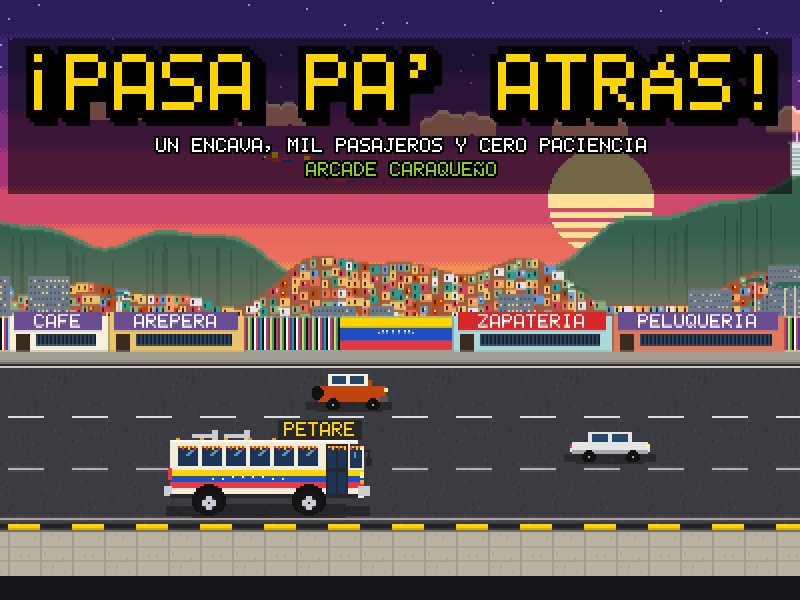
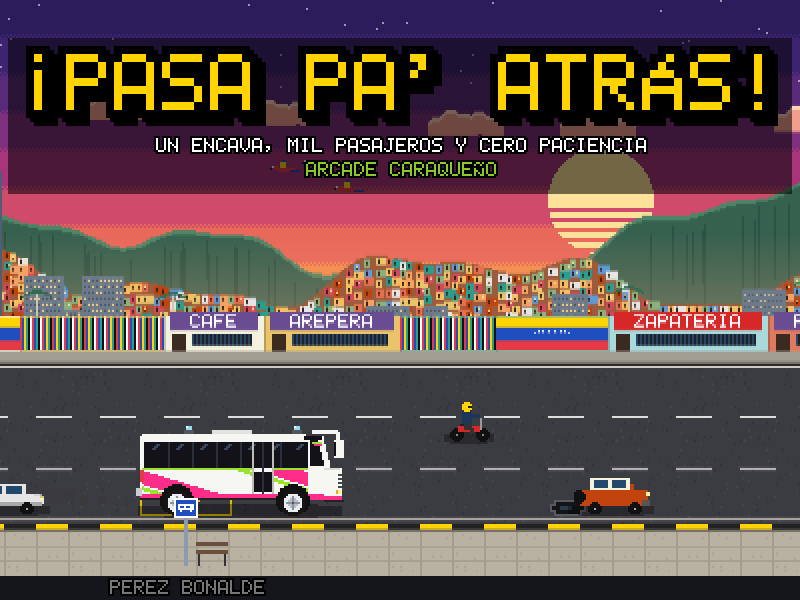
mejora visual del autobus

diff --git a/game.js b/game.js
@@ -6,6 +6,7 @@ const W = 400;
 const H = 300;
 const LY = [205, 231, 257]; // línea del suelo de cada carril (0 = izquierdo, 2 = junto a la acera)
 const KEY = 'pasa-pa-atras-v1';
+const DOOR = 11; // centro de la puerta respecto al centro del bus
 const DOCK = 40; // tolerancia (px) entre la puerta y el centro de la parada, hacia adelante o atrás
 
 // DO NOT replace existing keys — they match the physical arcade cabinet wiring.
@@ -77,6 +78,7 @@ const SOFT = 0xbbbbcc;
 const GOLD = 0xffd400;
 const GREEN = 0x8ac926;
 const LINE = 0x3a3a55;
+const PODIO = [0xffd400, 0xd8dee9, 0xe08a4a]; // oro, plata, bronce
 const PC = [0xff595e, 0xffca3a, 0x8ac926, 0x4cc9f0, 0xc77dff, 0xff8fd8, 0xf4a261, 0xffffff];
 const VT = [['c0', 20], ['c1', 20], ['c2', 20], ['c3', 20], ['c4', 20], ['c5', 20], ['pp', 24], ['jp', 19], ['mo', 11], ['mo', 11], ['tr', 32]];
 
@@ -194,50 +196,61 @@ function textures() {
   });
   S.cache.bitmapFont.add('f', Phaser.GameObjects.RetroFont.Parse(S, { image: 'font', width: 7, height: 9, chars: FC, charsPerRow: 20 }));
 
-  // El Encava ENT-610, decorado a la venezolana
+  // El Encava ENT-610 "tuneado": blanco, vidrios negros, rayas fucsia y verde lima,
+  // trompa con parachoques fucsia, espejos "oreja", sirenas en el techo y rines cromados
   mk('bus', 104, 46, () => {
-    const cr = '#f4ecd6';
-    R(dk, 57, 0, 42, 10);
-    ptxt('PETARE', 60, 1, Y);
-    R(ch, 14, 7, 12, 2); R(ch, 24, 5, 3, 5); R(ch, 30, 7, 12, 2); R(ch, 40, 5, 3, 5);
-    R(cr, 3, 10, 94, 29);
-    R(cr, 97, 13, 3, 26);
-    R('#fffaf0', 4, 10, 92, 1);
-    for (const x of [6, 18, 30, 42, 54]) R('#ff9f1c', x, 9, 2, 1);
-    for (let i = 0; i < 6; i++) {
-      const x = 7 + i * 12;
-      R(gl, x, 13, 10, 10);
-      R(g2, x + 6, 15, 2, 1); R(g2, x + 5, 16, 2, 1); R(g2, x + 4, 17, 2, 1);
+    const wh = '#f6f6f2', gs = '#121218', gr = '#2a2f3d', pk = '#ff2d8a', lm = '#9be22d', rf = '#3a4660';
+    // techo: aire acondicionado y luces tipo sirena
+    R('#e2e2de', 38, 5, 20, 2);
+    for (const x of [24, 78]) { R('#555', x, 5, 5, 2); R('#8fdcff', x + 1, 3, 3, 2); R('#fff', x + 1, 3); }
+    // carrocería y cabina con parabrisas inclinado
+    R(wh, 2, 8, 84, 31);
+    R(wh, 3, 7, 82, 1);
+    for (let y = 8; y < 39; y++) {
+      const e = y < 24 ? 93 + ((y - 8) >> 2) : 102;
+      R(wh, 86, y, e - 85, 1);
+      if (y > 9 && y < 23) R(gs, 87, y, e - 89, 1);
     }
-    R(dk, 81, 12, 11, 27);
-    R(gl, 82, 13, 9, 11);
-    R(gl, 82, 26, 9, 11);
-    R(dk, 86, 13, 1, 24);
-    R(gl, 93, 12, 5, 12);
-    R(gl, 98, 15, 1, 9);
-    R(g2, 95, 16, 1, 3);
-    // flecos rojos y amarillos
-    for (let x = 7; x < 99; x++) if ((x < 79 && (x - 7) % 12 < 10) || (x > 81 && x < 91) || x > 92) R(x % 2 ? Rd : Y, x, 13, 1, 1 + (x % 3 == 0));
-    // franjas tricolor con las 8 estrellas
-    for (const [c, y] of [[Y, 25], [B, 28], [Rd, 31]]) { R(c, 3, y, 78, 3); R(c, 92, y, 8, 3); }
-    for (let i = 0; i < 8; i++) R('#fff', 24 + i * 5, 29 - (i > 1 && i < 6));
-    R(Rd, 2, 24, 2, 6);
-    R('#fff59d', 98, 26, 2, 3);
-    R('#ff9f1c', 98, 30, 2, 2);
-    R(ch, 0, 33, 4, 5);
-    R(ch, 97, 33, 6, 5);
-    R(dk, 100, 15, 3, 1); R(dk, 102, 15, 1, 5); R(dk, 101, 19, 3, 4);
-    R(dk, 3, 37, 94, 2);
-    ci('#111', 22, 40, 8);
-    ci('#111', 72, 40, 8);
+    R(gs, 84, 8, 9, 2); // visera negra
+    R(lm, 88, 11, 5, 1); R(pk, 89, 12, 4, 1); // calcomanía en el parabrisas
+    R('#d9d9d4', 94, 24, 8, 1);
+    // franja de ventanas polarizadas
+    R(gs, 4, 11, 82, 13);
+    for (const x of [16, 28, 40, 52, 72]) R(gr, x, 11, 1, 13);
+    for (let x = 6; x < 80; x += 12) { R(rf, x + 4, 12, 2, 1); R(rf, x + 3, 13, 2, 1); R(rf, x + 2, 14, 2, 1); }
+    R(lm, 3, 24, 83, 1);
+    // rayas en curva subiendo hacia atrás
+    for (let x = 3; x < 86; x++) {
+      for (let y = 25; y < 37; y++) {
+        const v = (((y - 0.3 * x) % 24) + 24) % 24;
+        if (v < 7) R(pk, x, y);
+        else if (v >= 8 && v < 10) R(lm, x, y);
+      }
+    }
+    // puerta de dos hojas, detrás de la rueda delantera
+    R(wh, 58, 24, 11, 15);
+    R('#bdbdb8', 58, 11, 1, 28); R('#bdbdb8', 68, 11, 1, 28); R(gr, 63, 11, 1, 27);
+    R(gs, 59, 26, 4, 10); R(gs, 64, 26, 4, 10);
+    // faldón, trompa y luces
+    R(pk, 2, 37, 92, 2);
+    R('#222', 2, 39, 90, 1);
+    for (let k = 0; k < 4; k++) R('#444', 101, 27 + k * 2, 2, 1);
+    R('#fff59d', 101, 35, 2, 2); R('#ff9f1c', 100, 35, 1, 2);
+    R(pk, 86, 38, 17, 2); R('#222', 94, 40, 10, 1);
+    R('#e63946', 2, 25, 2, 6); R(ch, 0, 34, 3, 4);
+    // espejo "oreja"
+    R(wh, 88, 5, 13, 2); R(wh, 100, 6, 2, 4); R(wh, 99, 10, 5, 9); R(gs, 99, 11, 1, 7);
+    ci('#111', 20, 40, 8);
+    ci('#111', 78, 40, 8);
   });
   for (let f = 0; f < 2; f++) {
     mk('w' + f, 13, 13, () => {
       ci('#151515', 6, 6, 6);
-      ci(ch, 6, 6, 3);
-      if (f) { R('#444', 4, 4); R('#444', 8, 8); R('#444', 8, 4); R('#444', 4, 8); }
-      else { R('#444', 6, 3, 1, 7); R('#444', 3, 6, 7, 1); }
-      R('#222', 6, 6);
+      ci('#e9ecf0', 6, 6, 4);
+      ci('#b8bcc4', 6, 6, 2);
+      if (f) { R('#8a9099', 4, 4); R('#8a9099', 8, 8); R('#8a9099', 8, 4); R('#8a9099', 4, 8); }
+      else { R('#8a9099', 6, 3, 1, 7); R('#8a9099', 3, 6, 7, 1); }
+      R('#fff', 4, 3); R('#555', 6, 6);
     });
   }
   mk('sh', 32, 6, () => { R('#000', 4, 0, 24, 6); R('#000', 0, 1, 32, 4); });
@@ -319,6 +332,12 @@ function textures() {
   mk('ar', 12, 9, () => { R('#d4a373', 1, 0, 10, 4); R('#d4a373', 0, 1, 12, 3); R('#8b5a2b', 3, 1); R('#8b5a2b', 7, 2); R('#8b5a2b', 9, 1); R('#fdfcdc', 0, 4, 12, 1); R('#f4978e', 1, 5, 10, 1); R('#d4a373', 0, 6, 12, 2); R('#d4a373', 1, 8, 10, 1); });
   mk('bl', 12, 7, () => { R('#2d6a4f', 0, 0, 12, 7); R('#95d5b2', 1, 1, 10, 5); R('#2d6a4f', 5, 2, 2, 3); R('#2d6a4f', 2, 2); R('#2d6a4f', 9, 4); });
   mk('cf', 9, 10, () => { R('#ddd', 2, 0, 1, 2); R('#ddd', 4, 1, 1, 2); R('#fff', 1, 3, 6, 7); R('#fff', 7, 4, 2, 1); R('#fff', 8, 5, 1, 2); R('#fff', 7, 7, 2, 1); R('#6f4e37', 2, 3, 4, 1); R('#caa', 1, 9, 6, 1); });
+
+  mk('tip', 7, 10, () => {
+    R(Y, 2, 0, 3, 1); R(Y, 1, 1, 5, 4); R(Y, 2, 5, 3, 1);
+    R('#fff', 2, 1, 1, 2);
+    R('#ccc', 2, 6, 3, 1); R('#888', 2, 7, 3, 1); R('#ccc', 2, 8, 3, 1); R('#888', 3, 9);
+  });
 
   // guacamayas
   for (let f = 0; f < 2; f++) {
@@ -608,10 +627,11 @@ function create() {
   [['DERECHA', 'ACELERAR'], ['IZQUIERDA', 'FRENAR / RETRO'], ['ARRIBA/ABAJO', 'CAMBIAR CARRIL'], ['B1 / B2', 'CORNETA / TURBO']].forEach(([k, a], i) =>
     tc.add([T(12, 131 + i * 10, k, 1, GOLD), T(96, 131 + i * 10, a, 1, 0xffffff)]),
   );
-  tc.add((h.rk = T(212, 131, '', 1, 0xffffff)));
-  tc.add((h.rs = T(388, 131, '', 1, GOLD, 1).setRightAlign()));
-  tc.add(S.add.rectangle(W / 2, 189, 392, 13, 0x000000, 0.6));
-  tc.add((h.tip = T(W / 2, 185, TIPS[0], 1, 0x4cc9f0, 0.5)));
+  h.rk = rows(tc, 212, 388, 131);
+  tc.add((h.tb = S.add.rectangle(W / 2, 190, 10, 15, 0x0b0b14, 0.85).setStrokeStyle(1, LINE)));
+  tc.add((h.tbi = S.add.image(0, 185, 'tip').setOrigin(0)));
+  tc.add((h.tip = T(W / 2 + 6, 186, '', 1, 0x4cc9f0, 0.5)));
+  setTip(TIPS[0]);
   S.tweens.add({ targets: h.ps, alpha: 0.25, duration: 450, yoyo: true, repeat: -1 });
 
   // pausa
@@ -632,8 +652,7 @@ function create() {
   h.L = [0, 1, 2].map((i) => T(170 + i * 30, 142, 'A', 3, 0xffffff, 0.5));
   o.add(h.L);
   o.add((h.ng = S.add.graphics()));
-  o.add((h.or = T(150, 138, '', 1, 0xffffff)));
-  o.add((h.os = T(250, 138, '', 1, GOLD, 1).setRightAlign()));
+  h.or = rows(o, 140, 260, 136);
   o.add((h.ot = T(W / 2, 196, '', 1, DIM, 0.5)));
 
   getStore()
@@ -654,7 +673,7 @@ function update(time, dms) {
   if (G.ph == 'play') play(dt);
   else if (G.ph == 'title') {
     G.wx += 90 * dt;
-    if ((G.tt -= dt) < 0) { G.tt = 3.5; h.tip.setText(TIPS[G.ti++ % TIPS.length]); }
+    if ((G.tt -= dt) < 0) { G.tt = 3.5; setTip(TIPS[G.ti++ % TIPS.length]); }
     if (pr('S') | pr('1')) startGame();
   } else if (G.ph == 'pause') {
     if (pr('S')) { G.ph = 'play'; h.pause.setVisible(0); S.tweens.resumeAll(); }
@@ -694,9 +713,31 @@ function startGame() {
   pop(W / 2, 70, 'PARA RECOGER PASAJEROS', 0xffd400);
 }
 
+// 5 filas de ranking (nombre a la izquierda, puntaje a la derecha) dentro de un container
+function rows(c, xl, xr, y) {
+  return [0, 1, 2, 3, 4].map((i) => {
+    const r = [T(xl, y + i * 9, ''), T(xr, y + i * 9, '', 1, 0xffffff, 1)];
+    c.add(r);
+    return r;
+  });
+}
+function fillRank(rs) {
+  rs.forEach(([n, v], i) => {
+    const r = G.rank[i];
+    const c = i < 3 ? PODIO[i] : SOFT;
+    n.setText(r ? `${i + 1}. ${r.n}` : '').setTint(c);
+    v.setText(r ? r.s + ' BS' : '').setTint(c);
+  });
+  if (!G.rank.length) rs[0][0].setText('SE BUSCA CHOFER').setTint(0xffffff), rs[2][0].setText('¡SE EL PRIMERO!').setTint(GOLD);
+}
 function rankText() {
-  h.rk.setText(G.rank.length ? G.rank.map((r, i) => `${i + 1}. ${r.n}`).join('\n') : 'SE BUSCA CHOFER\n\n¡SE EL PRIMERO!');
-  h.rs.setText(G.rank.map((r) => r.s + ' BS').join('\n'));
+  fillRank(h.rk);
+}
+function setTip(t) {
+  h.tip.setText(t);
+  const w = h.tip.width + 16;
+  h.tb.setSize(w + 8, 15);
+  h.tbi.x = W / 2 - w / 2 + 2;
 }
 
 // ---------------------------------------------------------------- juego
@@ -1010,7 +1051,7 @@ function crash(e) {
 }
 
 function stops(dt) {
-  const door = G.wx + 35;
+  const door = G.wx + DOOR;
   const inLane = lane(G.by) == 2 && Math.abs(G.by - LY[2]) < 3;
   let dock = null;
   for (const e of ents) {
@@ -1041,11 +1082,11 @@ function board(e) {
   const mx = (9 + hops * 6) * (1 - G.lv * 0.06);
   const col = PC[G.cc++ % 8];
   G.pax.push({ d: e.i + hops, hops, pat: mx, mx, col, v: p.v });
-  S.tweens.add({ targets: p, wx: G.wx + 35, duration: 220, onComplete: () => (p.dead = 1) });
+  S.tweens.add({ targets: p, wx: G.wx + DOOR, duration: 220, onComplete: () => (p.dead = 1) });
   sfx('board');
   if (G.pax.length > 6 || !e.said) say(G.pax.length > 6 ? "¡PA'TRAS, QUE CABE UNO MAS!" : pick(COLECTOR), 0xffffff);
   e.said = 1;
-  pop(G.bx + 35, G.by - 30 - (G.sy % 3) * 9, '¡A ' + NM(e.i + hops) + '!', col);
+  pop(G.bx + DOOR, G.by - 30 - (G.sy % 3) * 9, '¡A ' + NM(e.i + hops) + '!', col);
   G.sy++;
 }
 
@@ -1060,11 +1101,11 @@ function deliver(pi, e) {
   G.bs += tot;
   G.deliv++;
   G.t += tip ? 4 : 2;
-  pop(G.bx + 35, G.by - 34, '+' + tot + ' BS', 0x8ac926, 2);
-  pop(G.bx + 35, G.by - 14, tip ? '¡PROPINA! +4 SEG' : '+2 SEG', 0xffd400);
+  pop(G.bx + DOOR, G.by - 34, '+' + tot + ' BS', 0x8ac926, 2);
+  pop(G.bx + DOOR, G.by - 14, tip ? '¡PROPINA! +4 SEG' : '+2 SEG', 0xffd400);
   say(pick(THANKS), p.col);
   sfx('cash');
-  const q = { k: 'ped', wx: G.wx + 35, sp: [] };
+  const q = { k: 'ped', wx: G.wx + DOOR, sp: [] };
   add(q, 'p' + p.v + '0', 0, 283);
   ents.push(q);
   S.tweens.add({ targets: q, wx: e.wx - rnd(14, 34), duration: 500 });
@@ -1075,7 +1116,7 @@ function passengers(dt) {
   const k = G.pax.length > 6 ? 1.5 : 1; // apretados se impacientan más rápido
   for (let i = G.pax.length - 1; i >= 0; i--) {
     const p = G.pax[i];
-    const d = stopX(p.d) - (G.wx + 35);
+    const d = stopX(p.d) - (G.wx + DOOR);
     p.pat -= dt * k;
     if (!p.ann && d < 260 && d > 0) { p.ann = 1; say(pick(['¡LA PARADA, CHOFER!', '¡EN LA PROXIMA!', '¡ME QUEDO EN ' + NM(p.d) + '!']), p.col); }
     if (!p.pass && d < -DOCK - 15) { p.pass = 1; p.pat -= 3; say('¡SE PASO, CHOFER!', 0xff595e); }
@@ -1085,7 +1126,7 @@ function passengers(dt) {
       G.combo = 0;
       sfx('bad');
       say(pick(['¡ME BAJO AQUI!', '¡MEJOR ME VOY A PIE!']), 0xff595e);
-      const q = { k: 'ped', wx: G.wx + 35, sp: [] };
+      const q = { k: 'ped', wx: G.wx + DOOR, sp: [] };
       add(q, 'p' + p.v + '0', 0, 283);
       ents.push(q);
       S.tweens.add({ targets: q.sp[0].img, alpha: 0, delay: 700, duration: 400, onComplete: () => (q.dead = 1) });
@@ -1104,13 +1145,13 @@ function hudUpd() {
   // próxima bajada (o próxima parada con gente esperando)
   let best = null, bd = 1e9, chip = 0, txt = '';
   for (const p of G.pax) {
-    const d = stopX(p.d) - G.wx - 35;
+    const d = stopX(p.d) - G.wx - DOOR;
     if (d > -200 && d < bd) { bd = d; best = p; }
   }
   if (best) { chip = best.col; txt = 'BAJA EN ' + NM(best.d); }
   else {
     const e = ents.find((e) => e.k == 'stop' && e.wait.length && e.wx > G.wx);
-    if (e) { chip = 0xffffff; bd = e.wx - G.wx - 35; txt = 'RECOGE EN ' + NM(e.i); }
+    if (e) { chip = 0xffffff; bd = e.wx - G.wx - DOOR; txt = 'RECOGE EN ' + NM(e.i); }
   }
   const near = txt && Math.abs(bd) < DOCK;
   h.i.setText(txt);
@@ -1151,8 +1192,8 @@ function render(dt, t) {
   const by = Math.round(G.by + G.jy);
   bus.setPosition(G.bx, by - (moving && (t / 110 | 0) % 2 ? 1 : 0)).setDepth(10 + G.by).setVisible(G.inv <= 0 || (t / 70 | 0) % 2);
   const wt = 'w' + ((G.wx / 5) & 1);
-  wa.setPosition(G.bx - 30, by - 6).setTexture(wt).setDepth(10.1 + G.by).setVisible(bus.visible);
-  wb.setPosition(G.bx + 20, by - 6).setTexture(wt).setDepth(10.1 + G.by).setVisible(bus.visible);
+  wa.setPosition(G.bx - 32, by - 6).setTexture(wt).setDepth(10.1 + G.by).setVisible(bus.visible);
+  wb.setPosition(G.bx + 26, by - 6).setTexture(wt).setDepth(10.1 + G.by).setVisible(bus.visible);
   bsh.setPosition(G.bx, Math.round(G.by) + 2).setDepth(9.4 + G.by);
 
   for (let i = ents.length - 1; i >= 0; i--) {
@@ -1197,8 +1238,7 @@ function gameOver() {
   [G.deliv, (G.wx / 9000).toFixed(1) + ' KM', 'x' + G.maxc].forEach((v, i) => h.sv[i].setText(v));
   h.nl.setText('ESCRIBE TU NOMBRE, CHOFER');
   h.ot.setText('ARRIBA/ABAJO: LETRA     B1: SIGUIENTE');
-  h.or.setText('');
-  h.os.setText('');
+  h.or.forEach((r) => r.forEach((t) => t.setText('')));
   nameText();
 }
 
@@ -1236,8 +1276,7 @@ function saveScore() {
   h.L.forEach((t) => t.setVisible(0));
   h.ng.clear();
   h.nl.setText('MEJORES CHOFERES');
-  h.or.setText(G.rank.map((r, i) => `${i + 1}. ${r.n}`).join('\n'));
-  h.os.setText(G.rank.map((r) => r.s + ' BS').join('\n'));
+  fillRank(h.or);
   h.ot.setText('START PARA VOLVER');
   rankText();
   getStore().set(KEY, G.rank).catch(() => {});
